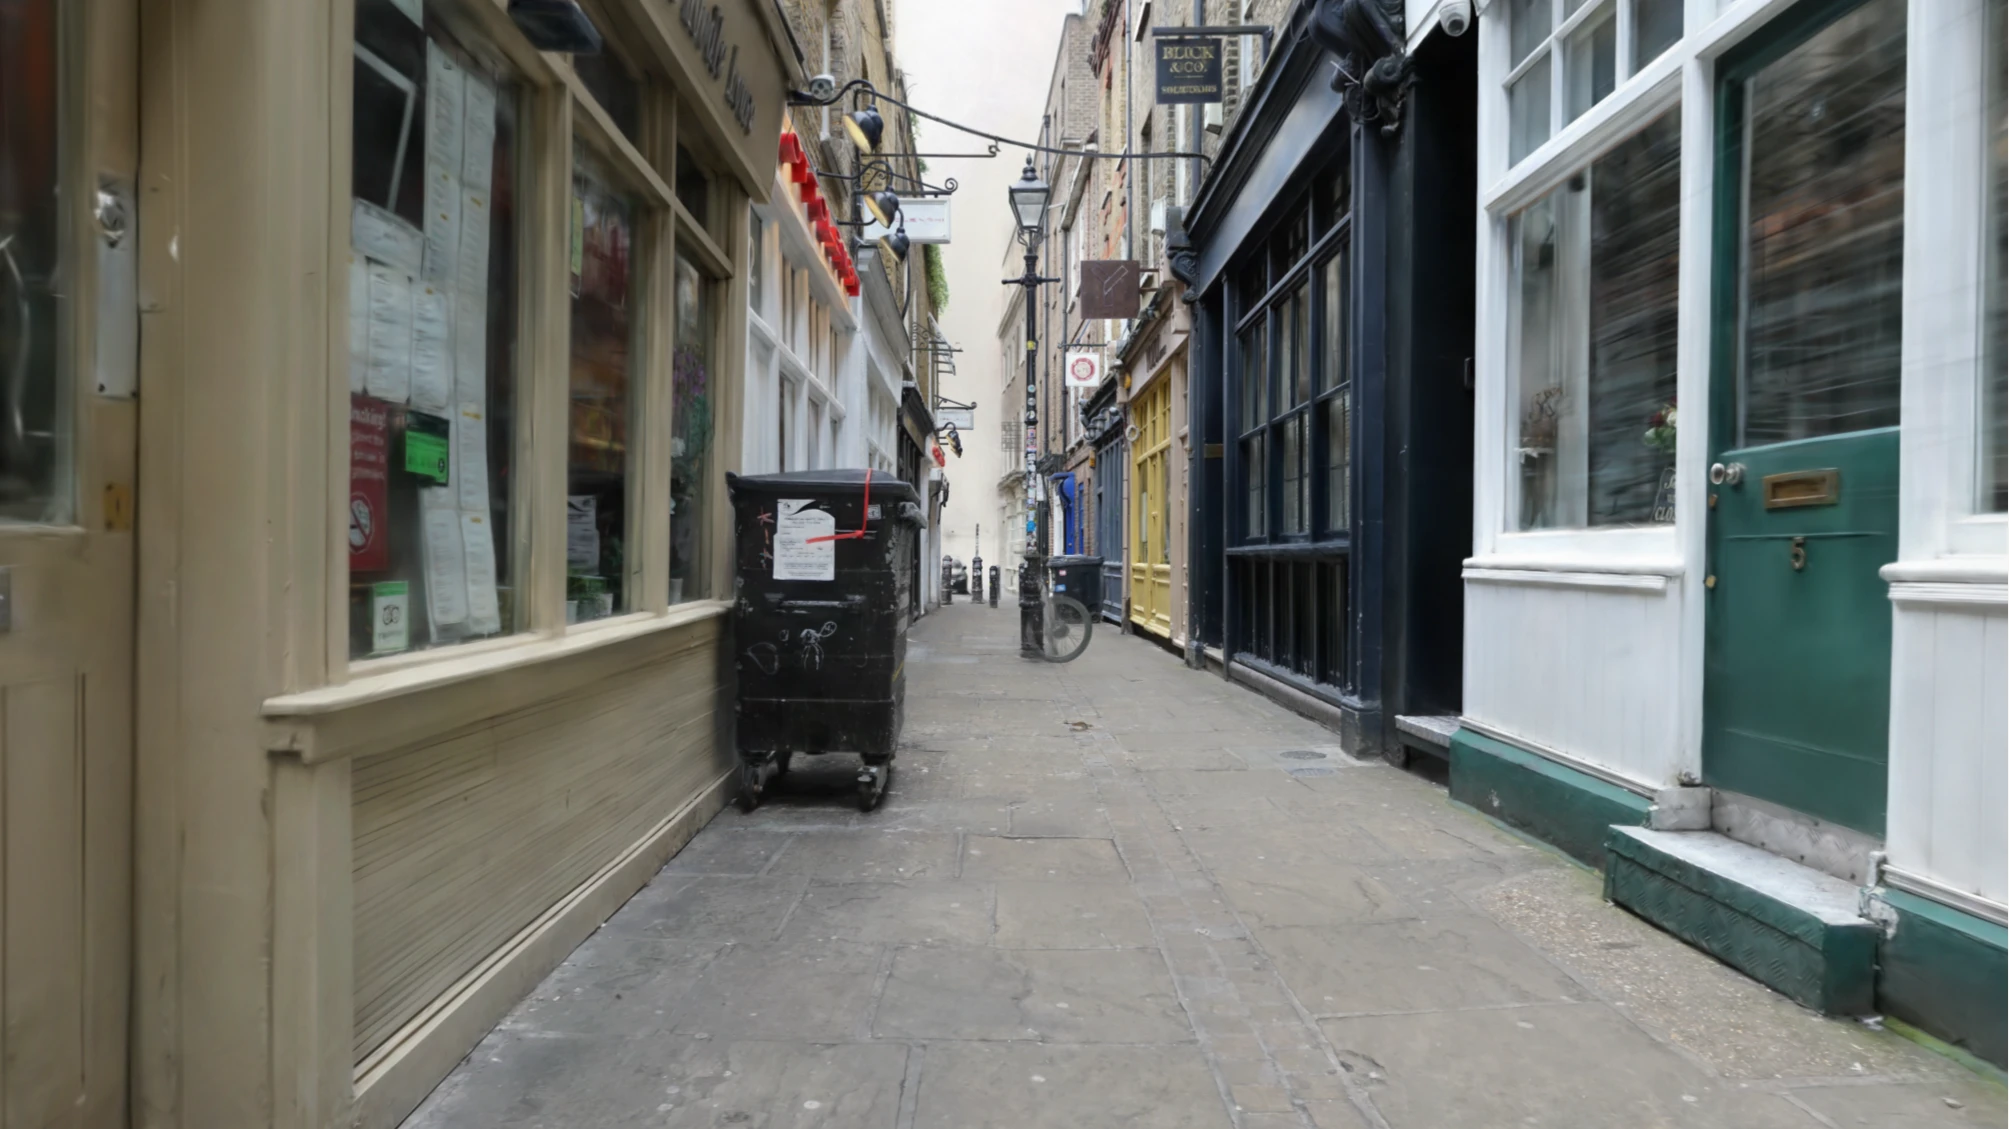
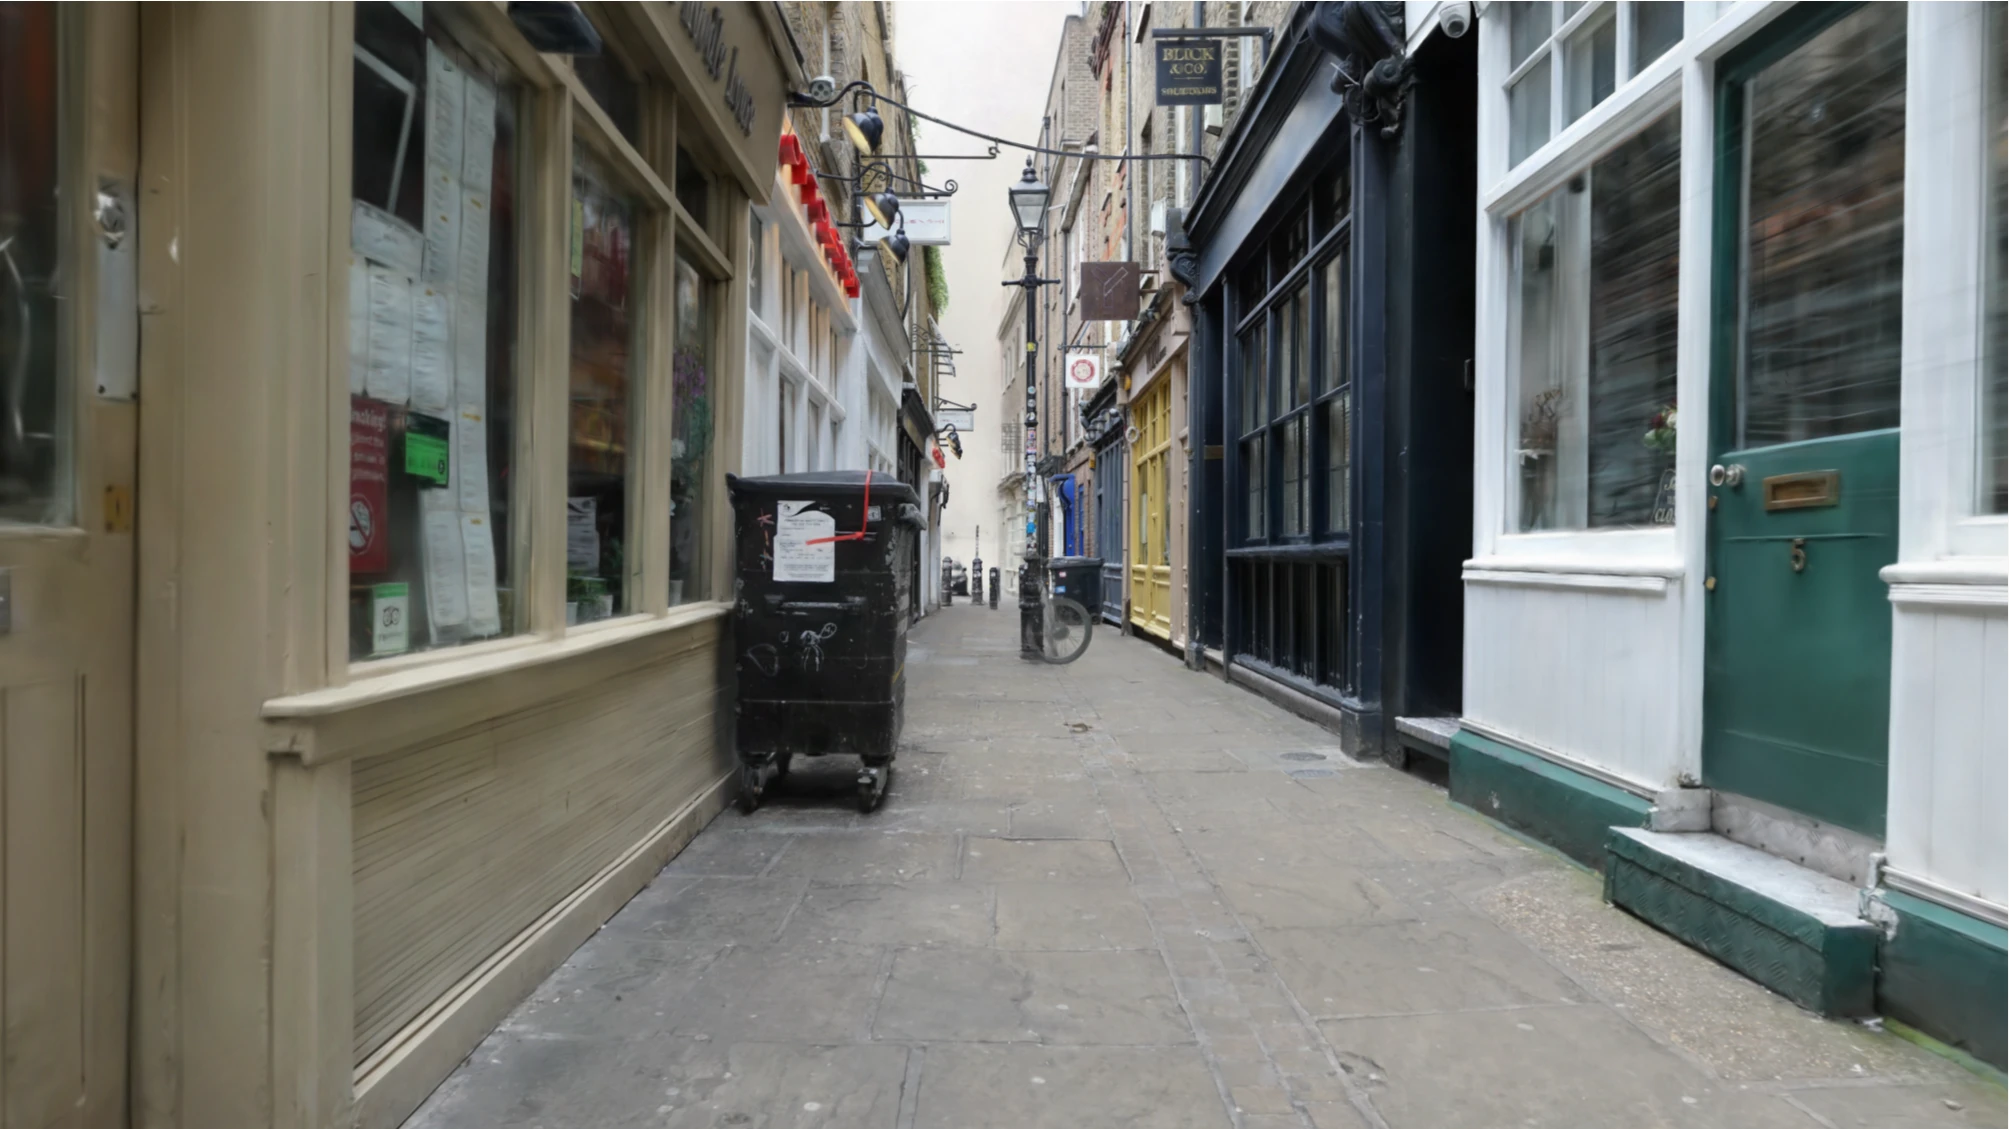
Splat viewer: »Automatisch flüssig« changes the number of splats gradually; the street gallery 10.000, 100.000, 1.000.000 and all
Down over a few pictures when the camera moves, up over about a second
when it stands, instead of a snap each way. The gallery starts where a
street begins to show and has a step between 100.000 and all.

diff --git a/src/static/include/splat_viewer.js b/src/static/include/splat_viewer.js
@@ -397,7 +397,6 @@ void main() {
                 if (e.isTrusted && this.autoCount && this.autoCount.checked) {
                     this.autoCount.checked = false;
                     this.counter.step = '0.1';
-                    this.still = false;
                     clearTimeout(this.stillTimer);
                 }
                 this.change();
@@ -455,7 +454,6 @@ void main() {
             this.autoCount.addEventListener('change', () => {
                 // the automatic number needs fine steps, the hand the stops
                 this.counter.step = this.autoCount.checked ? 'any' : '0.1';
-                this.still = false;
                 clearTimeout(this.stillTimer);
                 if (this.autoCount.checked) this.calibrate();
                 else this.change(false);
@@ -1128,31 +1126,44 @@ void main() {
         draw() {
             const auto = this.autoCount && this.autoCount.checked && this.splats;
             if (auto) {
-                // the camera moved: back to the number that keeps it smooth
                 const cam = this.camera();
                 const key = cam.back.map((v) => v.toFixed(3)).join() + cam.eye.map((v) => v.toFixed(4)).join();
-                if (key !== this.autoKey) {
-                    this.autoKey = key;
-                    if (this.still) { this.still = false; this.setCountNow(this.movingCount); }
-                }
+                if (key !== this.autoKey) { this.autoKey = key; this.lastMoveAt = performance.now(); }
             }
             const start = auto ? performance.now() : 0;
             this.drawFrame();
-            if (!auto || this.still) return;
-            // no new movement after this picture (about two frames): the
-            // camera stands, all splats (stillPicture)
-            clearTimeout(this.stillTimer);
-            this.stillTimer = setTimeout(() => this.stillPicture(), 120);
+            if (!auto) return;
             this.gl.finish();
-            const took = performance.now() - start;
-            this.frameTime = this.frameTime ? 0.7 * this.frameTime + 0.3 * took : took;
-            if (start - (this.lastAdjust || 0) < 300) return;
-            this.lastAdjust = start;
-            let v = parseFloat(this.counter.value);
-            if (this.frameTime > 28 && v > 0.55) v = Math.max(0.55, v - 0.03);
-            else if (this.frameTime < 14 && v < 1) v = Math.min(1, v + 0.02);
-            else return;
-            this.setCountNow(v);
+            const now = performance.now();
+            const took = now - start;
+            const current = parseFloat(this.counter.value);
+            if (this.movingCount === undefined) this.movingCount = current;
+            const moving = this.calibrating || now - (this.lastMoveAt || 0) < 150 || this.flight || this.walking
+                || this.swinging || (this.waves && this.waves.length);
+            if (moving && Math.abs(current - this.movingCount) < 1e-6) {
+                // the number that keeps moving smooth, from the time of the
+                // pictures drawn with it
+                this.frameTime = this.frameTime ? 0.7 * this.frameTime + 0.3 * took : took;
+                if (now - (this.lastAdjust || 0) >= 300) {
+                    this.lastAdjust = now;
+                    if (this.frameTime > 28 && this.movingCount > 0.55) this.movingCount = Math.max(0.55, this.movingCount - 0.03);
+                    else if (this.frameTime < 14 && this.movingCount < 1) this.movingCount = Math.min(1, this.movingCount + 0.02);
+                }
+            }
+            // towards the target a little with every picture, so that
+            // nothing snaps: down quickly when the camera moves, up over
+            // about a second when it stands (all splats, the sharpest picture)
+            const target = moving ? this.movingCount : 1;
+            let next = current;
+            if (current > target) next = Math.max(target, current - 0.15);
+            else if (current < target) next = Math.min(target, current + 0.02);
+            if (next !== current) {
+                this.setCountNow(next);
+                this.redraw();
+            }
+            // the camera may stop without another picture: look again then
+            clearTimeout(this.stillTimer);
+            if (moving) this.stillTimer = setTimeout(() => this.redraw(), 170);
         }
 
         // the number of splats (the slider's 0 to 1) everywhere at once,
@@ -1166,32 +1177,19 @@ void main() {
             this.describe();
         }
 
-        // With »Automatisch flüssig«, as soon as the camera stands: all
-        // splats, for the sharpest picture; drawing it may take longer,
-        // nothing moves. Not while waves run, which want smooth pictures.
-        // The first movement brings the smooth number back (draw).
-        stillPicture() {
-            if (!this.autoCount.checked || !this.splats || this.still) return;
-            if (this.flight || this.walking || this.swinging || (this.waves && this.waves.length)) {
-                this.stillTimer = setTimeout(() => this.stillPicture(), 120);
-                return;
-            }
-            if (parseFloat(this.counter.value) >= 1) return;
-            this.movingCount = parseFloat(this.counter.value);
-            this.still = true;
-            this.setCountNow(1);
-            this.redraw();
-        }
 
         // about two seconds of pictures in a row, each timed by draw(), so
         // that the number of splats settles even while nothing moves
         calibrate() {
             const until = performance.now() + 2000;
+            this.movingCount = parseFloat(this.counter.value);
+            this.calibrating = true;
             const step = () => {
-                if (!this.autoCount.checked || !this.splats) return;
+                if (!this.autoCount.checked || !this.splats) { this.calibrating = false; return; }
                 this.lastSort = null;   // as when moving: sorting is part of the time
                 this.draw();
                 if (performance.now() < until) requestAnimationFrame(step);
+                else { this.calibrating = false; this.redraw(); }
             };
             requestAnimationFrame(step);
         }

diff --git a/src/content/gaussian-splatting/gaussian-splatting.md b/src/content/gaussian-splatting/gaussian-splatting.md
@@ -1284,17 +1284,6 @@ open-site: /gaussian-splatting
 tab: preview
 viewport: 1280x1080
 hook: hide-footer
-hook: scene Artillery Passage (5 Mio. Splats, 80 MB) 1000
-crop-element: #szenen .splat-viewer-stage
--->
-<img src='gasse-1000.webp' alt='Die Gasse aus 1.000 Splats: auf hellem Grund nur ein paar lange, verwischte Striche und dunkle Flecken, von einer Gasse nichts zu erkennen.'>
-<figcaption>1.000 Splats</figcaption></figure>
-<figure>
-<!-- tutorial-screenshot
-open-site: /gaussian-splatting
-tab: preview
-viewport: 1280x1080
-hook: hide-footer
 hook: scene Artillery Passage (5 Mio. Splats, 80 MB) 10000
 crop-element: #szenen .splat-viewer-stage
 -->
@@ -1311,6 +1300,17 @@ crop-element: #szenen .splat-viewer-stage
 -->
 <img src='gasse-100000.webp' alt='Die Gasse aus 100.000 Splats: Fassaden links und rechts und der Boden sind zu erkennen, aber verschmiert und voller schwarzer und heller Schlieren.'>
 <figcaption>100.000 Splats</figcaption></figure>
+<figure>
+<!-- tutorial-screenshot
+open-site: /gaussian-splatting
+tab: preview
+viewport: 1280x1080
+hook: hide-footer
+hook: scene Artillery Passage (5 Mio. Splats, 80 MB) 1000000
+crop-element: #szenen .splat-viewer-stage
+-->
+<img src='gasse-1000000.webp' alt='Die Gasse aus einer Million Splats: Fassaden, Fenster, die Mülltonne und das Pflaster sind klar zu erkennen; die Aushänge hinter den Scheiben und die Schilder über der Gasse sind noch verschwommen, ohne lesbare Schrift.'>
+<figcaption>1.000.000 Splats</figcaption></figure>
 <figure>
 <!-- tutorial-screenshot
 open-site: /gaussian-splatting
